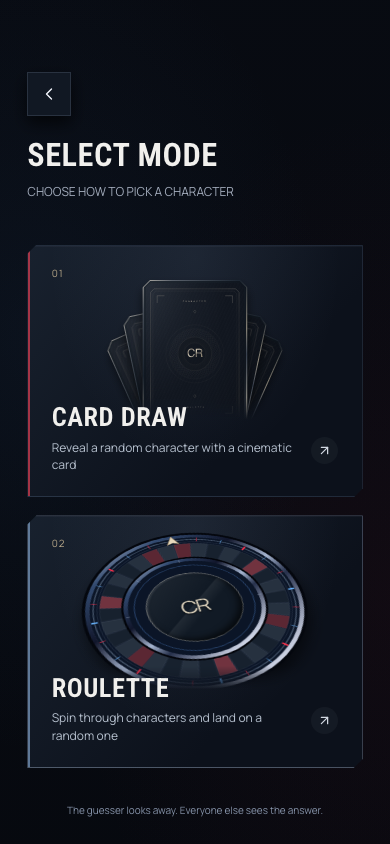
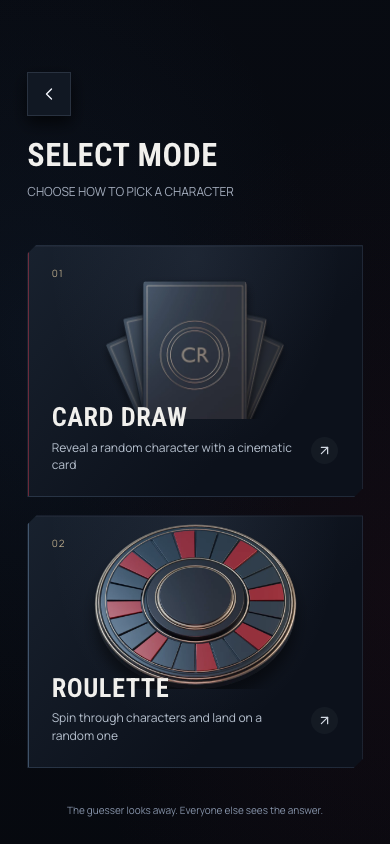
Update Site source

diff --git a/src/components/Cinematic.tsx b/src/components/Cinematic.tsx
@@ -231,90 +231,6 @@ export function BrandEmblem({ className = '' }: { className?: string }) {
     </svg>
   );
 }
-function DeckEngraving() {
-  const id = useId().replace(/:/g, '');
-  return (
-    <svg className="deck-engraving" viewBox="0 0 600 860" aria-hidden="true">
-      <defs>
-        <linearGradient id={`${id}-foil`} x2=".85" y2="1">
-          <stop stopColor="#ddd0b8" />
-          <stop offset=".3" stopColor="#8a8277" />
-          <stop offset=".47" stopColor="#eee3cb" />
-          <stop offset=".63" stopColor="#716c64" />
-          <stop offset="1" stopColor="#bbad91" />
-        </linearGradient>
-        <pattern id={`${id}-weave`} width="12" height="12" patternUnits="userSpaceOnUse">
-          <path
-            d="M0 6 6 0 12 6 6 12Z"
-            fill="none"
-            stroke="#cad4e1"
-            strokeWidth=".45"
-            strokeOpacity=".07"
-          />
-        </pattern>
-      </defs>
-      <path d="M35 53 53 35h494l18 18v754l-18 18H53l-18-18Z" fill={`url(#${id}-weave)`} />
-      <g fill="none" stroke={`url(#${id}-foil)`}>
-        <path d="M32 53 53 32h494l21 21v754l-21 21H53l-21-21Z" strokeWidth="1.4" opacity=".7" />
-        <path d="M46 62 62 46h476l16 16v736l-16 16H62l-16-16Z" strokeWidth=".6" opacity=".45" />
-        <path
-          d="M72 118V74h44m368 0h44v44M72 742v44h44m368 0h44v-44"
-          strokeWidth="1.5"
-          opacity=".7"
-        />
-        {Array.from({ length: 24 }, (_, i) => (
-          <ellipse
-            key={i}
-            cx="300"
-            cy="426"
-            rx="154"
-            ry="65"
-            transform={`rotate(${i * 7.5} 300 426)`}
-            strokeWidth=".55"
-            opacity=".28"
-          />
-        ))}
-        <circle cx="300" cy="426" r="176" strokeWidth=".6" opacity=".4" />
-        <circle cx="300" cy="426" r="102" strokeWidth=".8" opacity=".55" fill="#11161d" />
-        <path d="m300 160 7 10-7 10-7-10Zm0 512 7 10-7 10-7-10Z" strokeWidth="1" opacity=".8" />
-      </g>
-      <g fill={`url(#${id}-foil)`} fontFamily="Studio, sans-serif" textAnchor="middle">
-        <text x="300" y="448" fontSize="70" fontWeight="400" letterSpacing="-3">
-          CR
-        </text>
-        <text x="300" y="115" fontSize="12" fontWeight="500" letterSpacing="8">
-          CHARACTER
-        </text>
-        <text x="300" y="754" fontSize="12" fontWeight="500" letterSpacing="8">
-          ROULETTE
-        </text>
-      </g>
-    </svg>
-  );
-}
-function UnknownArtwork() {
-  return (
-    <svg className="neutral-silhouette unknown-artwork" viewBox="0 0 300 460" aria-hidden="true">
-      <g fill="none" stroke="#cdc3af" strokeWidth=".5" opacity=".28">
-        <path d="M32 52V32h20m196 0h20v20M32 408v20h20m196 0h20v-20" />
-        <circle cx="150" cy="213" r="82" />
-        <circle cx="150" cy="213" r="92" strokeDasharray=".5 7" />
-        <path d="M130 98h40m-40 230h40" />
-      </g>
-      <text
-        x="150"
-        y="251"
-        textAnchor="middle"
-        fontFamily="Studio, sans-serif"
-        fontSize="114"
-        fontWeight="300"
-        fill="#d8cfbd"
-      >
-        ?
-      </text>
-    </svg>
-  );
-}
 export function CharacterCard({
   character,
   front = false,
@@ -331,7 +247,7 @@ export function CharacterCard({
   const displayName = character ? characterName(character, settings.language) : '';
   return (
     <div
-      className={`character-card ${front ? 'card-front' : 'card-back'} ${className}`}
+      className={`character-card ${front ? 'card-front' : 'card-back'} ${!front || !character?.imagePath || broken ? 'has-prop-render' : ''} ${className}`}
       style={{ '--accent': hues[tone] } as CSSProperties}
       data-character-id={character?.id}
     >
@@ -339,7 +255,9 @@ export function CharacterCard({
       <div className="card-content">
         <div className="card-hex-texture" />
         <div className="card-diagonal-sheen" />
-        {!front && <DeckEngraving />}
+        {!front && (
+          <img className="prop-card-render" src="/art/prop-card.webp" alt="" draggable={false} />
+        )}
         {front ? (
           <>
             {character?.imagePath && !broken ? (
@@ -351,7 +269,12 @@ export function CharacterCard({
                 draggable={false}
               />
             ) : (
-              <UnknownArtwork />
+              <img
+                className="prop-card-render neutral-silhouette unknown-artwork"
+                src="/art/prop-card-front.webp"
+                alt=""
+                draggable={false}
+              />
             )}
           </>
         ) : null}
@@ -402,6 +325,12 @@ export function RouletteWheel({
       rotor.current?.setAttribute('transform', `rotate(${v} 180 180)`),
     );
   }, [rotation]);
+  if (decorative)
+    return (
+      <div className="roulette-wheel wheel-decorative">
+        <img src="/art/prop-wheel.webp" alt="" draggable={false} />
+      </div>
+    );
   const angle = 360 / count;
   const polar = (r: number, a: number) => [
     180 + r * Math.cos(((a - 90) * Math.PI) / 180),

diff --git a/src/styles/interior.css b/src/styles/interior.css
@@ -1698,3 +1698,48 @@ html[data-motion='false'] .selected-deck-card .card-diagonal-sheen::after {
     top: 10%;
   }
 }
+
+/* Pre-rendered props preserve physical highlights as the deck moves. */
+.character-card.has-prop-render::before,
+.character-card.has-prop-render::after {
+  display: none;
+}
+.character-card.has-prop-render .card-content {
+  background: none;
+  inset: 0;
+  clip-path: none;
+  border-radius: 5%;
+}
+.prop-card-render {
+  position: absolute;
+  inset: 0;
+  width: 100%;
+  height: 100%;
+  object-fit: fill;
+}
+.character-card.has-prop-render .card-diagonal-sheen {
+  background: none;
+}
+.character-card.has-prop-render .character-name {
+  bottom: 7%;
+}
+.roulette-mode-art .wheel-decorative,
+.mode-armed .roulette-mode-art .wheel-decorative {
+  top: 50%;
+  left: 50%;
+  width: min(87%, 470px);
+  height: 100%;
+  transform: translate(-50%, -50%);
+}
+.wheel-decorative img {
+  width: 100%;
+  height: 100%;
+  object-fit: contain;
+}
+.mode-choice::before {
+  width: 1px;
+  opacity: 0.45;
+}
+.mode-art {
+  mask-image: none;
+}

diff --git a/tools/render-props.py b/tools/render-props.py
@@ -1,0 +1,110 @@
+"""Render original game props with Blender: blender -b -t 6 -P tools/render-props.py."""
+import math
+import bpy
+from mathutils import Vector
+
+def material(name, color, metal, rough):
+    m = bpy.data.materials.new(name)
+    m.diffuse_color = (*color, 1)
+    m.use_nodes = True
+    p = m.node_tree.nodes.get('Principled BSDF')
+    p.inputs['Base Color'].default_value = (*color, 1)
+    p.inputs['Metallic'].default_value = metal
+    p.inputs['Roughness'].default_value = rough
+    return m
+
+def aim(obj, point):
+    obj.rotation_euler = (Vector(point)-obj.location).to_track_quat('-Z','Y').to_euler()
+
+def setup(camera, scale, width, height):
+    bpy.ops.object.select_all(action='SELECT')
+    bpy.ops.object.delete(use_global=False)
+    s = bpy.context.scene
+    s.render.engine = 'CYCLES'
+    s.cycles.samples = 16
+    s.cycles.use_denoising = True
+    s.render.film_transparent = True
+    s.render.resolution_x, s.render.resolution_y = width, height
+    s.render.resolution_percentage = 100
+    s.world.use_nodes = True
+    s.world.node_tree.nodes['Background'].inputs[0].default_value = (.25,.31,.44,1)
+    s.world.node_tree.nodes['Background'].inputs[1].default_value = .35
+    bpy.ops.object.camera_add(location=camera)
+    s.camera = bpy.context.object
+    aim(s.camera, (0,0,0))
+    s.camera.data.type = 'ORTHO'
+    s.camera.data.ortho_scale = scale
+    for point, power, size, color in [
+        ((-3,2,5),420,4,(.74,.85,1)), ((4,1,3),240,3,(1,.72,.49)),
+        ((0,-4,3),110,2,(1,.35,.28))]:
+        bpy.ops.object.light_add(type='AREA', location=point)
+        lamp=bpy.context.object
+        lamp.data.energy, lamp.data.size, lamp.data.color=power,size,color
+        aim(lamp,(0,0,0))
+
+def finish(obj, mat, bevel):
+    obj.data.materials.append(mat)
+    if bevel:
+        mod=obj.modifiers.new('Machined edge','BEVEL')
+        mod.width=bevel
+        mod.segments=3
+        obj.modifiers.new('Face normals','WEIGHTED_NORMAL')
+
+def ring(radius,width,z,mat):
+    bpy.ops.mesh.primitive_torus_add(major_radius=radius,minor_radius=width,major_segments=96,minor_segments=12,location=(0,0,z))
+    obj=bpy.context.object
+    finish(obj,mat,0)
+    for face in obj.data.polygons: face.use_smooth=True
+
+def save(name):
+    bpy.context.scene.render.filepath='/tmp/roulette-'+name+'.png'
+    bpy.ops.render.render(write_still=True)
+
+graphite=material('Graphite',(.022,.03,.046),.5,.36)
+rim=material('Palladium',(.55,.47,.35),.85,.27)
+enamel=material('Oxblood enamel',(.28,.025,.05),.35,.32)
+ink=material('Midnight enamel',(.035,.06,.092),.5,.34)
+
+setup((0,0,7),3.2,448,640)
+bpy.ops.mesh.primitive_cube_add()
+card=bpy.context.object
+card.dimensions=(2.19,3.15,.08)
+bpy.ops.object.transform_apply(location=False,rotation=False,scale=True)
+finish(card,graphite,.055)
+for radius in (.51,.58,.72): ring(radius,.007,.042,rim)
+for x,y,sx,sy in [(0,1.46,1,.006),(0,-1.46,1,.006),(-1,0,.006,1.46),(1,0,.006,1.46)]:
+    bpy.ops.mesh.primitive_cube_add(size=1,location=(x,y,.043))
+    line=bpy.context.object
+    line.scale=(sx*2,sy*2,.005)
+    finish(line,rim,0)
+bpy.ops.object.text_add(location=(0,-.15,.045))
+label=bpy.context.object
+label.data.body='CR'
+label.data.align_x='CENTER'
+label.data.size=.45
+label.data.extrude=.002
+label.data.materials.append(rim)
+save('card')
+label.data.body='?'
+label.data.size=.86
+label.location.y=-.29
+save('card-front')
+
+setup((0,-4.2,5.5),4.35,768,680)
+for radius,depth,z,mat in [(1.98,.2,-.13,graphite),(1.88,.07,.005,ink),(.97,.15,.1,graphite),(.76,.045,.19,rim),(.72,.05,.215,graphite)]:
+    bpy.ops.mesh.primitive_cylinder_add(vertices=128,radius=radius,depth=depth,location=(0,0,z))
+    finish(bpy.context.object,mat,.022)
+for radius,width,z in [(1.96,.031,-.047),(1.91,.016,.025),(1.78,.01,.085),(1.04,.018,.095),(.79,.014,.183)]:
+    ring(radius,width,z,rim)
+for i in range(24):
+    start=math.tau*i/24+.012
+    end=math.tau*(i+1)/24-.012
+    angles=[start+(end-start)*j/5 for j in range(6)]
+    outline=[(r*math.cos(a), r*math.sin(a)) for r,seq in [(1.08,angles),(1.75,angles[::-1])] for a in seq]
+    n=len(outline)
+    mesh=bpy.data.meshes.new('Enamel insert')
+    mesh.from_pydata([(x,y,z) for z in (.035,.085) for x,y in outline],[],[tuple(range(n-1,-1,-1)),tuple(range(n,2*n))]+[(j,(j+1)%n,(j+1)%n+n,j+n) for j in range(n)])
+    obj=bpy.data.objects.new('Enamel insert',mesh)
+    bpy.context.collection.objects.link(obj)
+    finish(obj,enamel if i%3==0 else ink,.009)
+save('wheel')
